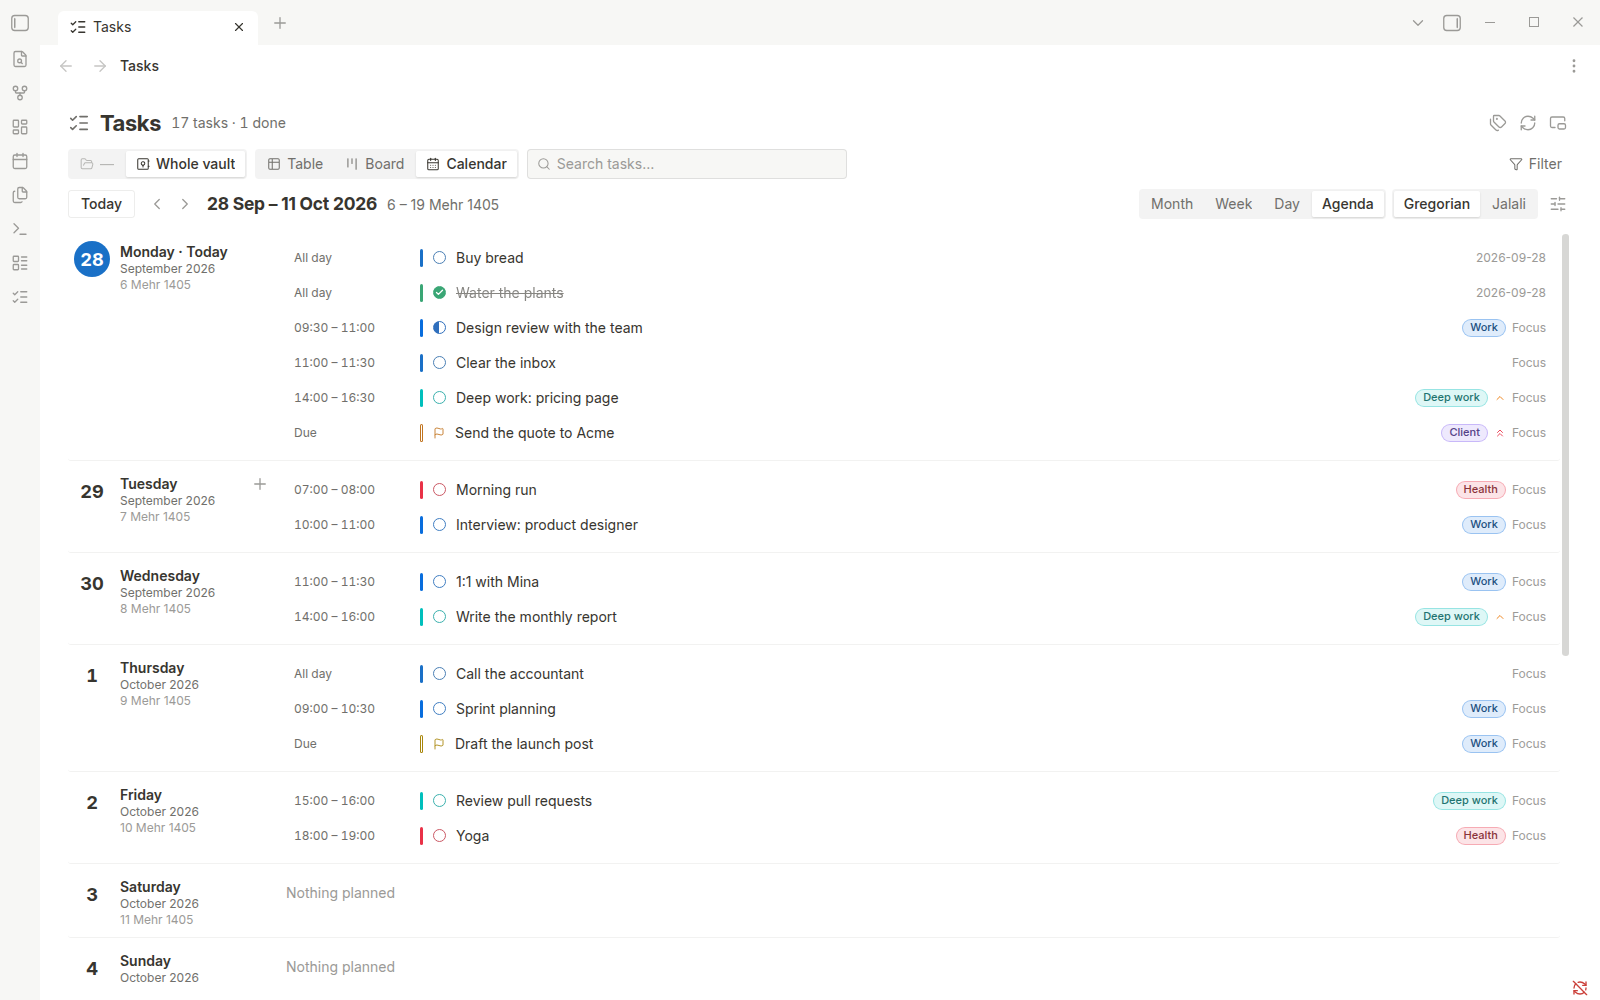
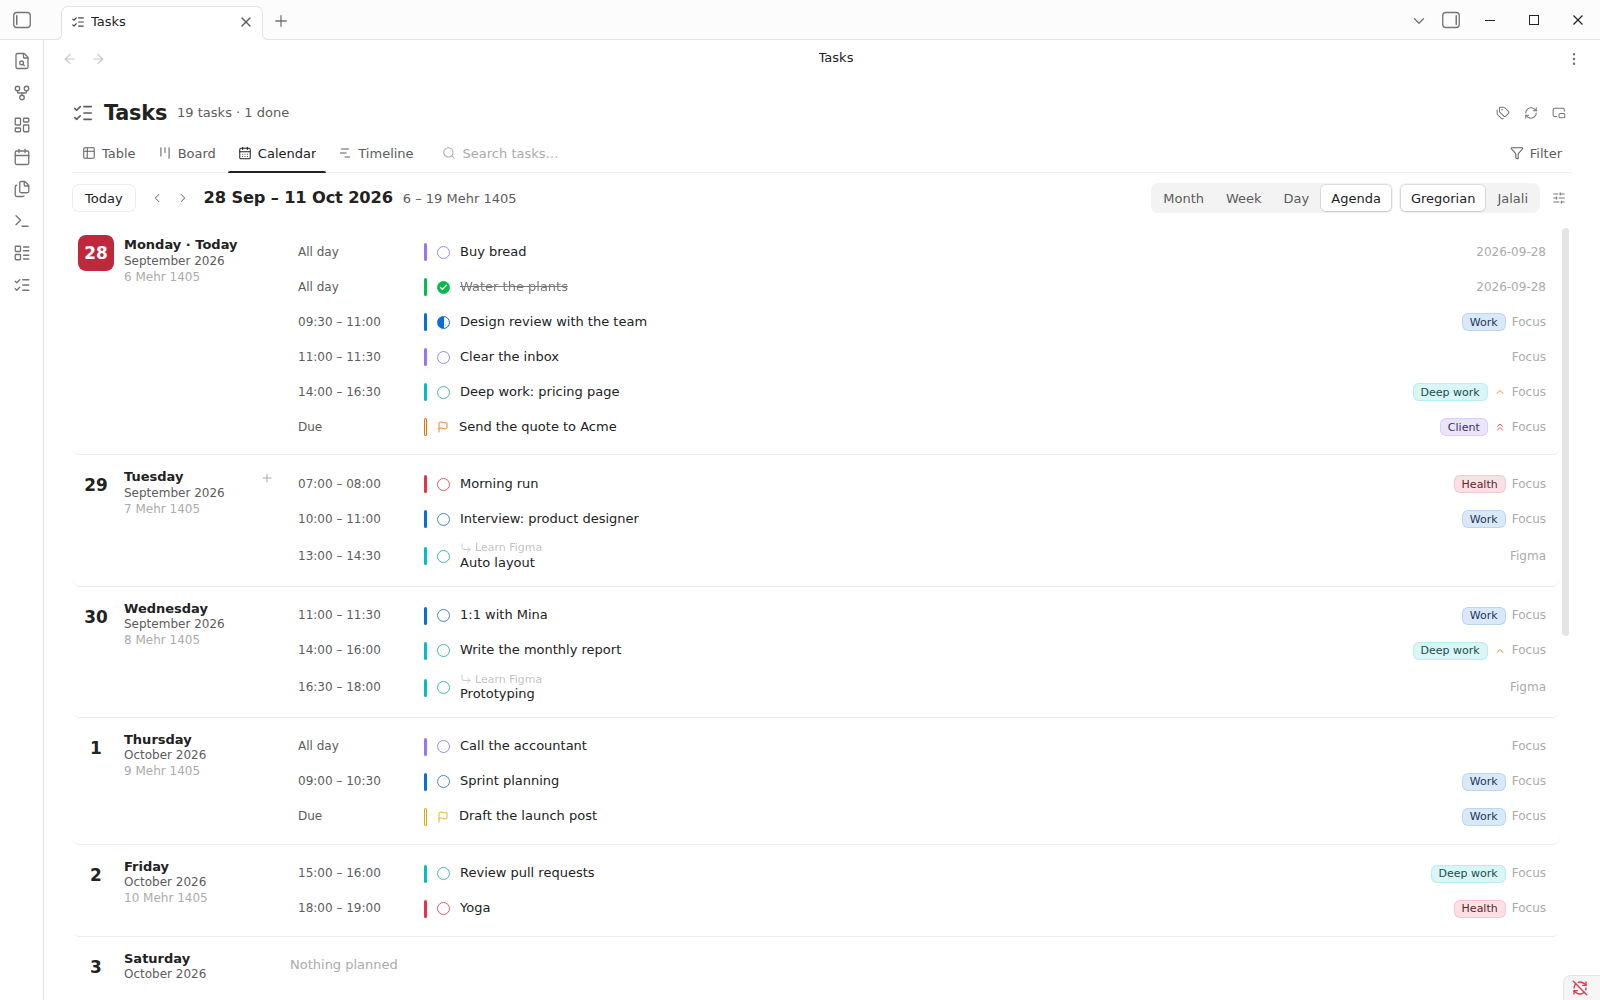
Document the design pass and refresh the images
Screenshots are regenerated from the current styles: the harness renders
through npm run previews, and the calendar, menus, subtasks and floating
board are captured from Obsidian 1.13.7 itself. The Plan column starts wider
so a day and its hours stay on one line.

Claude-Session: https://claude.ai/code/session_01136MY4aeXv5N98j1zhg18J

diff --git a/src/board/board-columns.ts b/src/board/board-columns.ts
@@ -32,7 +32,7 @@ export const BOARD_PROPERTIES: Record<BoardPropertyId, BoardPropertyInfo> = {
   tags: { icon: 'tags', width: 180, min: 90 },
   priority: { icon: 'flag', width: 112, min: 84, sortKey: 'priority' },
   deadline: { icon: 'calendar', width: 196, min: 110, sortKey: 'deadline' },
-  plan: { icon: 'clock', width: 196, min: 110, sortKey: 'plan' },
+  plan: { icon: 'clock', width: 228, min: 110, sortKey: 'plan' },
   waiting: { icon: 'hourglass', width: 180, min: 110 },
   repeat: { icon: 'repeat', width: 132, min: 90 },
   progress: { icon: 'pie-chart', width: 112, min: 80, sortKey: 'progress' },

diff --git a/CHANGELOG.md b/CHANGELOG.md
@@ -236,6 +236,47 @@
   stretches a task's circle into an oval or a day's number into a pill.
   Bookcloth sets 40px there.
 
+### A design pass
+
+The board, the calendar, the timeline and the menus were gone over one view at
+a time, against Notion's own, and share one set of radii, shadows, easing and
+focus rings now.
+
+- **The layout switch is a row of tabs.** A hairline runs under the toolbar and
+  the current tab sits on it with a 2px bar; the others are plain text with a
+  soft fill under the pointer. The search field has no box until you use it.
+  The Planner / Whole vault switch shows only when a target folder is set.
+- **Status is a capsule**; tags, priorities and dates stay rounded rectangles,
+  so the property people read first has a shape of its own. The capsule follows
+  the chip radius setting (eight times over), so squaring the chips squares it
+  too. It applies in notes as well.
+- **Table:** tighter rows and faint column lines; a **New** row ends every
+  group and adds a task with that group's status, priority or tag (one at the
+  end of the table when it is grouped any other way); the check and the title
+  stay in view when the properties are scrolled sideways; a row's **Open** and
+  a card's **⋯** appear on hover as small raised buttons. Group names stay put
+  while the table scrolls. The Plan column starts wider (228px) so a day and its
+  hours stay on one line.
+- **Board:** a column's **New** is aligned to the start, and a column's
+  header chip is a capsule tinted like its column.
+- **Calendar:** the time it is stands in the gutter, on the now line's height,
+  in the same red as today's number; the hour mark it would cover is hidden
+  while it is there.
+- **Timeline:** today's line starts with a dot under the number, and
+  dependency arrows have rounded corners.
+- **Menus:** a menu's search is a line under the title rather than a boxed
+  field (a filled field on a phone, where there is something to aim at).
+- **Empty and loading states** are composed rather than bare: an icon, a line
+  of text, and for a search that finds nothing a **Clear search and filters**
+  button. The board shows skeleton rows while it loads.
+- **Reduced motion:** with the system setting on, nothing in TaskPro slides,
+  fades or pulses.
+- Style Settings defaults were re-tuned: a chip's fill is 15% of its accent, its
+  stroke 16% (was 32%) and its label takes 40% of the accent (was 78%), so
+  the text is nearer the theme's own; the chip corner radius is 6px (was 12px)
+  and the panel radius 12px (was 10px). A setting you have changed keeps its
+  value.
+
 ### Fixes
 
 - A task added under a heading is laid out the Markdown way: a blank line
@@ -275,6 +316,24 @@
 - The calendar's header was only as wide as the screen. When a week wider
   than the screen was scrolled sideways, blocks showed through the part left
   uncovered.
+- Chips did not follow the theme in Obsidian: Obsidian keeps a theme's colours
+  and text sizes on `<body>`, and the plugin's derived colours were declared
+  on `:root`, above them, so a tag's green was a fallback rather than the
+  theme's. They are declared on `<body>` now (and Style Settings, which
+  writes there, still wins).
+- A block or a timeline bar dropped where the pointer was let go could land a
+  step from it, because the last move event had not been applied. The
+  pointer-up position is applied first now, in the table, the board, the
+  calendar and the timeline.
+- Holding a block against the edge of the calendar scrolled the grid at once,
+  which could move a block an hour or more by itself. The grid now scrolls
+  only after the pointer has rested at the edge for a moment.
+- A field in a Persian board took the wrong side for its placeholder while it
+  was empty (an empty field has no text to take a direction from). Empty
+  fields now rest in the board's direction and follow what is typed.
+- Closing a column's or a group's **New** field with `Esc` after adding a task
+  raised an error in the console, because taking the field out of the page
+  blurred it and asked to close it again.
 
 ### Under the hood
 
@@ -296,6 +355,16 @@
   with touch input: sheets, swipes, long presses, holding to drag, and the
   three-day week. `test/reading-mode.mjs` runs the Reading View processor
   over a nested list.
+- The look is built from tokens declared once on `<body>`: a radius scale
+  (chip, control, inner, card, panel, column, sheet), shared ring and lift
+  shadows tinted from the page colour, easing and three durations, and a focus
+  ring. `test/obsidian-theme.css` declares the theme's variables on `<body>`
+  too, so the harness would catch a rule that stops following the theme.
+- The UI tests believe it is 15:00 (a fixed clock), so a test that takes its
+  coordinates from the calendar does not depend on the time of day. New
+  checks cover the tabs, the capsule, the theme's colour on a tag, the New
+  rows, the frozen columns, the empty state's action, reduced motion, the
+  scope switch and the now label.
 
 ## 1.4.0 - Your own tags, and a board of every task
 

diff --git a/README.md b/README.md
@@ -86,6 +86,10 @@ with a palette of its own:
 </tr>
 </table>
 
+Status is the property people read first, so it is the one chip with a shape of
+its own, a capsule; tags, priorities and dates stay rounded rectangles. The
+capsule follows the chip radius setting, so squaring the chips squares it too.
+
 A label is also pulled toward the theme's own text colour, which is what keeps
 it readable in both modes from one declaration: it lightens on a dark theme and
 darkens on a light one, because that is where the theme's text colour is. Every
@@ -201,10 +205,13 @@ the ribbon or with **Open Task Board**, and it opens as a tab of its own.
 ![The task board as a kanban board, one column per status](docs/images/task-board-kanban-dark.png)
 
 - **Scope:** the whole vault, or only the target folder set under **Settings →
-  TaskPro → General**. The switch is at the top of the board.
-- **Four layouts:** a **table** with a column per property, a **board** with a
-  column per group (drag a card to another column to change its status,
-  priority or tag), the [timeline](#timeline) and the [calendar](#calendar).
+  TaskPro → General**. The switch is at the top of the board, beside the tabs,
+  and is there only when a target folder is set.
+- **Four layouts,** as a row of tabs (the current one marked by a bar on the
+  line under them, the way Notion marks its views): a **table** with a column
+  per property, a **board** with a column per group (drag a card to another
+  column to change its status, priority or tag), the [timeline](#timeline) and
+  the [calendar](#calendar).
 - **Group** by status, tag, priority, deadline (*Overdue*, *Today*, *Next 7
   days*, *Later*, *Past*) or note, and fold away groups you do not need; a
   task with two tags appears under both, as in a Notion multi-select.
@@ -236,10 +243,13 @@ the ribbon or with **Open Task Board**, and it opens as a tab of its own.
 - **Right-click any task** — a row, a card, or a task on the calendar — or
   press its **⋯** button for the [task menu](#the-task-menu): every property
   a task can carry, one hover away.
-- **Add tasks** from the row at the top, or from a board column's **New**
-  button. A new task goes into the note of your choice and takes on the active
-  filters (or the column it was added to), so it does not vanish from the view
-  the moment it is created.
+- **Add tasks** from the row at the top, from a board column's **New** button,
+  or from the **New** row that ends each group of the table. A new task goes
+  into the note of your choice and takes on the active filters (or the group it
+  was added to), so it does not vanish from the view the moment it is created.
+- **A wide table keeps its place:** the check and the title stay in view when
+  the properties are scrolled sideways, and a group's name stays with them. A
+  row's **↗** and a card's **⋯** appear on hover, as small raised buttons.
 - The board remembers its layout, grouping, sort and filters between sessions,
   follows your notes live, and reads right to left in Persian:
 
@@ -368,6 +378,8 @@ and the scale of days on top.
   the calendar.
 - **Arrows** join each task to the tasks it is [waiting on](#waiting-on-another-task),
   red when the one it waits on is planned to end after it starts.
+- **Today** is a red line down the chart that starts with a dot under today's
+  number; weekends are shaded.
 - A deadline before the task's plan is flagged on the deadline's day.
 - **Tasks with no dates** are folded away under the chart; open the section
   and click a day in a task's row to plan it for that day.
@@ -428,6 +440,9 @@ can decide what to work on and when, in the Gregorian or the Jalali calendar.
   you will do it, the deadline is when it is due.
 - The options button (the sliders next to the calendar switch) turns
   deadlines, tasks from daily notes, and done tasks on or off.
+- **The time it is:** in the week and day views a red line crosses today, and a
+  small label in the gutter, level with it, tells the time (in your clock
+  setting); the hour mark it would sit on is hidden while it is there.
 
   ![The agenda view: the next two weeks as a list](docs/images/task-calendar-agenda-light.png)
 
